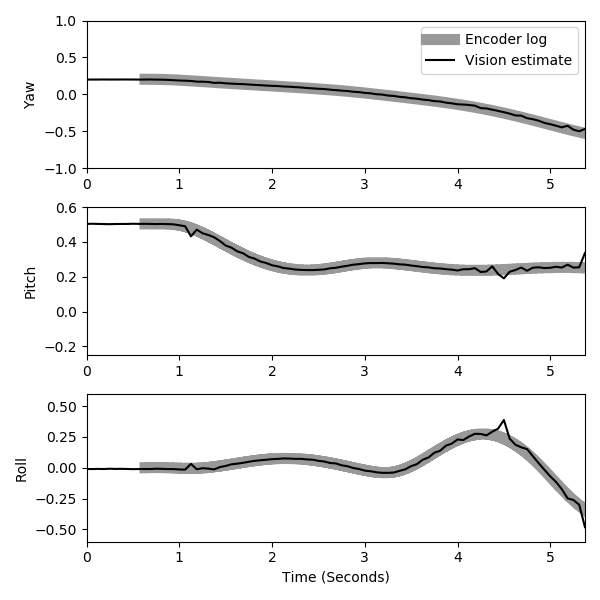
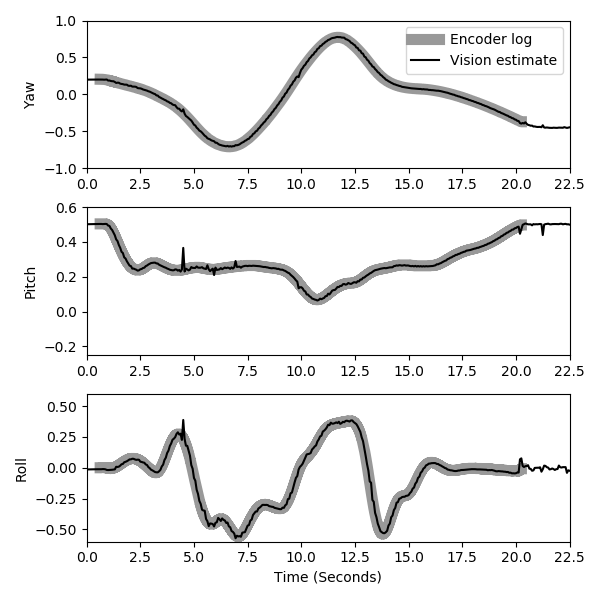
Done ex4

diff --git a/ex4/python/common.py b/ex4/python/common.py
@@ -82,7 +82,40 @@ def levenberg_marquardt(uv, weights, yaw, pitch, roll):
     #
     # Task 2a: Implement the Levenberg-Marquardt method
     #
-    return yaw, pitch, roll
+    max_iter = 100
+    step_size = 0.25
+    lam = 1e-3
+    precision = 1e-3
+    error = 0
+
+    theta = np.array([yaw, pitch, roll])
+    JTJ, JTr = normal_equations(uv, weights, theta[0], theta[1], theta[2])
+    D = np.eye(3) * np.average(np.diag(JTJ))
+    _theta = theta
+
+    #print("NEW IMAGE: ")
+    
+    for iter in range(max_iter):
+        JTJ, JTr = normal_equations(uv, weights, theta[0], theta[1], theta[2])
+        delta = np.linalg.solve((JTJ + lam * D), -JTr)
+        _theta = theta + step_size*delta
+        _error = np.linalg.norm(_theta - theta)
+        theta = _theta
+
+        # termination criteria
+        if _error < precision:
+            break
+        # Calculate new lambda
+        if _error < error:
+            lam = lam/10
+        else:
+            lam = lam*10
+        
+        error = _error
+        #print("Iteration %i Theta: %f, %f, %f, Lambda: %f" %(iter, theta[0], theta[1], theta[2], lam))
+        
+
+    return theta[0], theta[1], theta[2]
 
 def rotate_x(radians):
     c = np.cos(radians)

diff --git a/ex4/python/main.py b/ex4/python/main.py
@@ -10,13 +10,18 @@ yaw   = 11.6*np.pi/180
 pitch = 28.9*np.pi/180
 roll  = -0.6*np.pi/180
 
+yaw   = 0*np.pi/180
+pitch = 0*np.pi/180
+roll  = -0*np.pi/180
+
 # Task 1
-method = gauss_newton
-last_image = 86
+#method = gauss_newton
+#last_image = 86
 
 # Task 2
-# method = levenberg_marquardt
-# last_image = 360
+method = levenberg_marquardt
+last_image = 360
+
 
 trajectory = []
 for image_number in range(last_image + 1):
